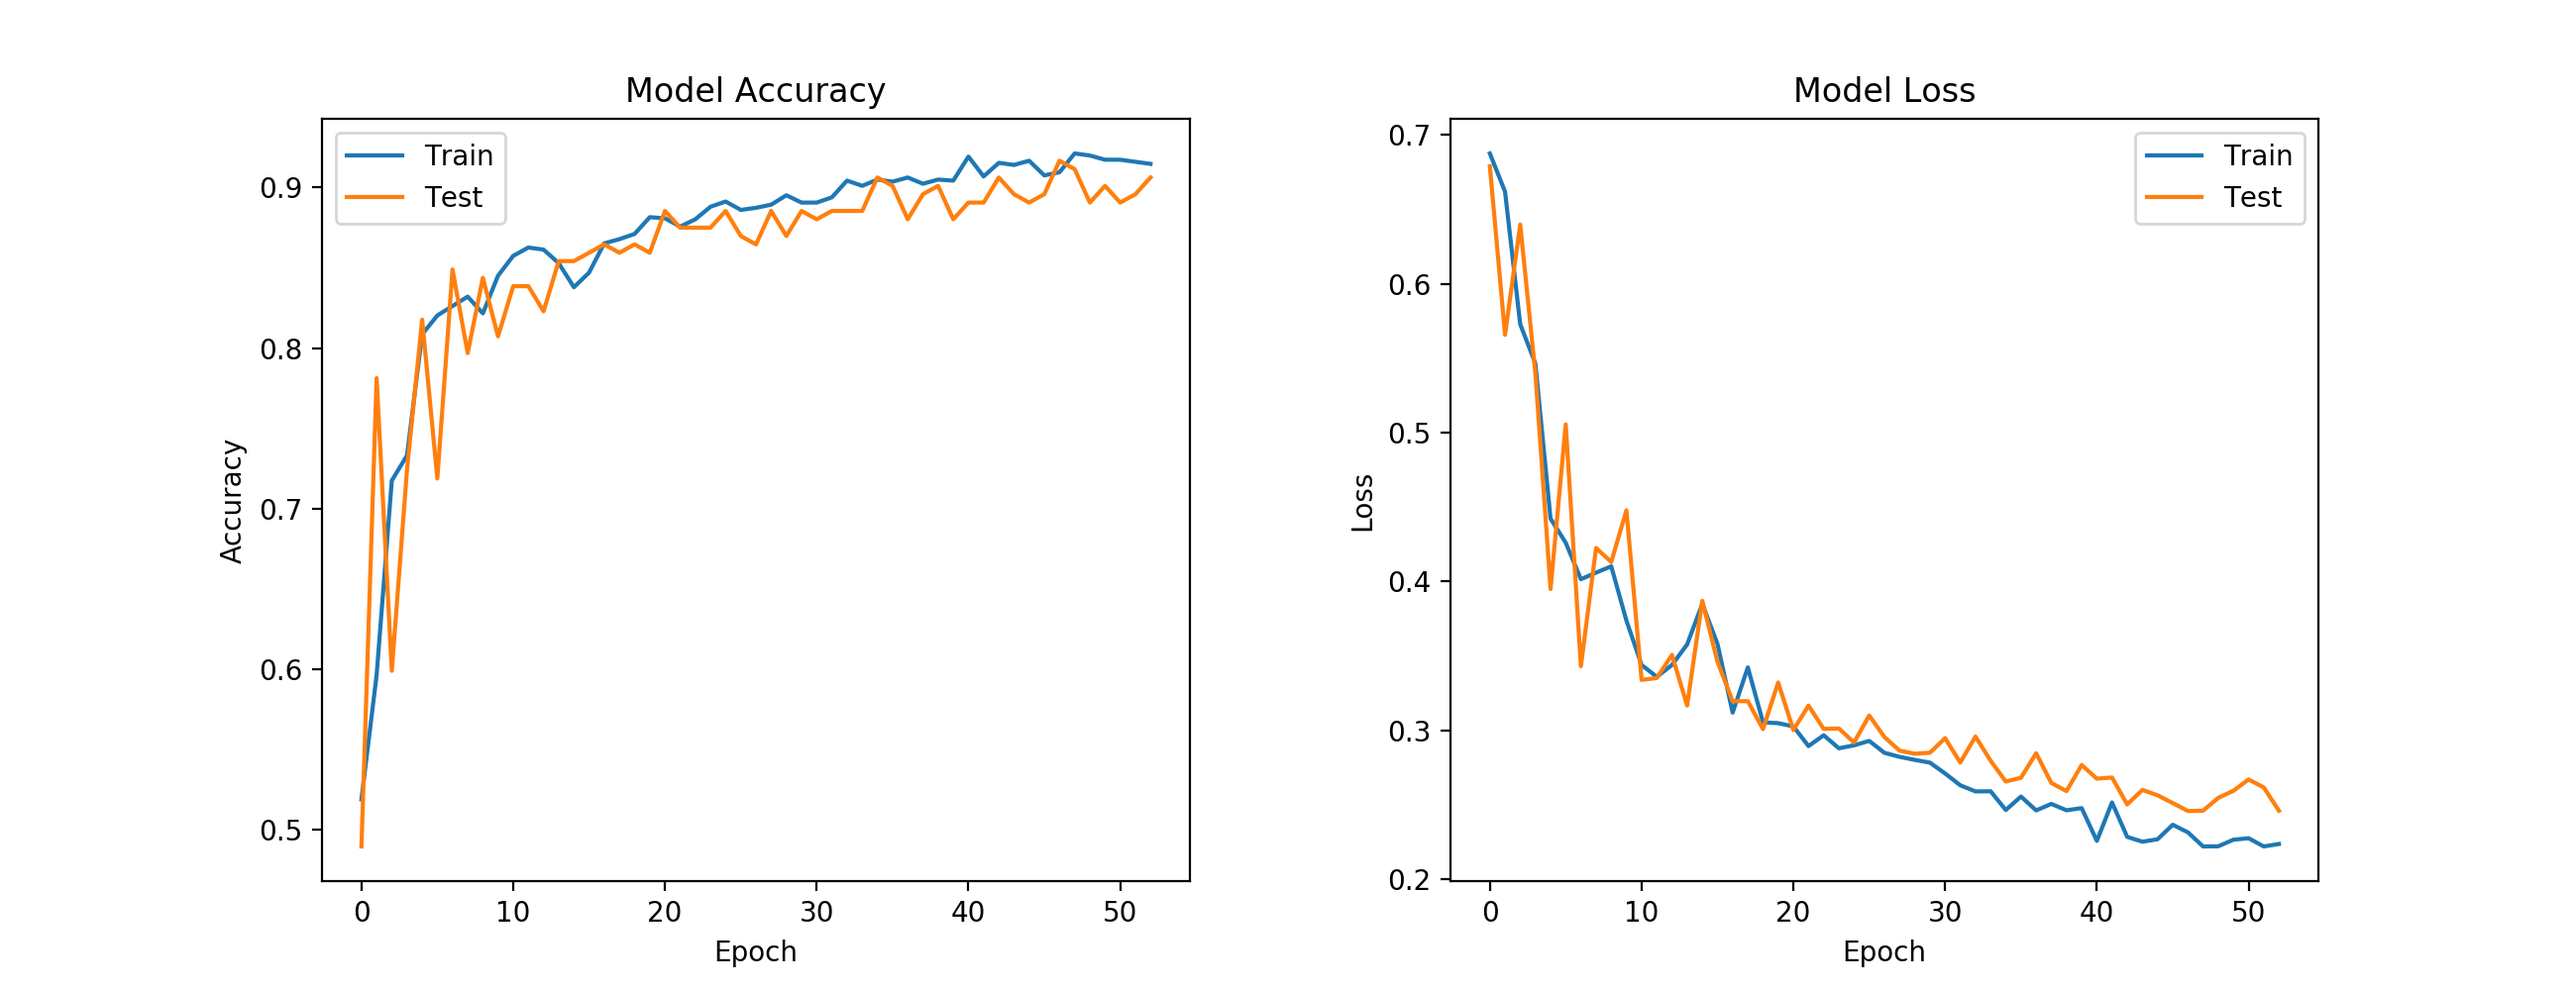
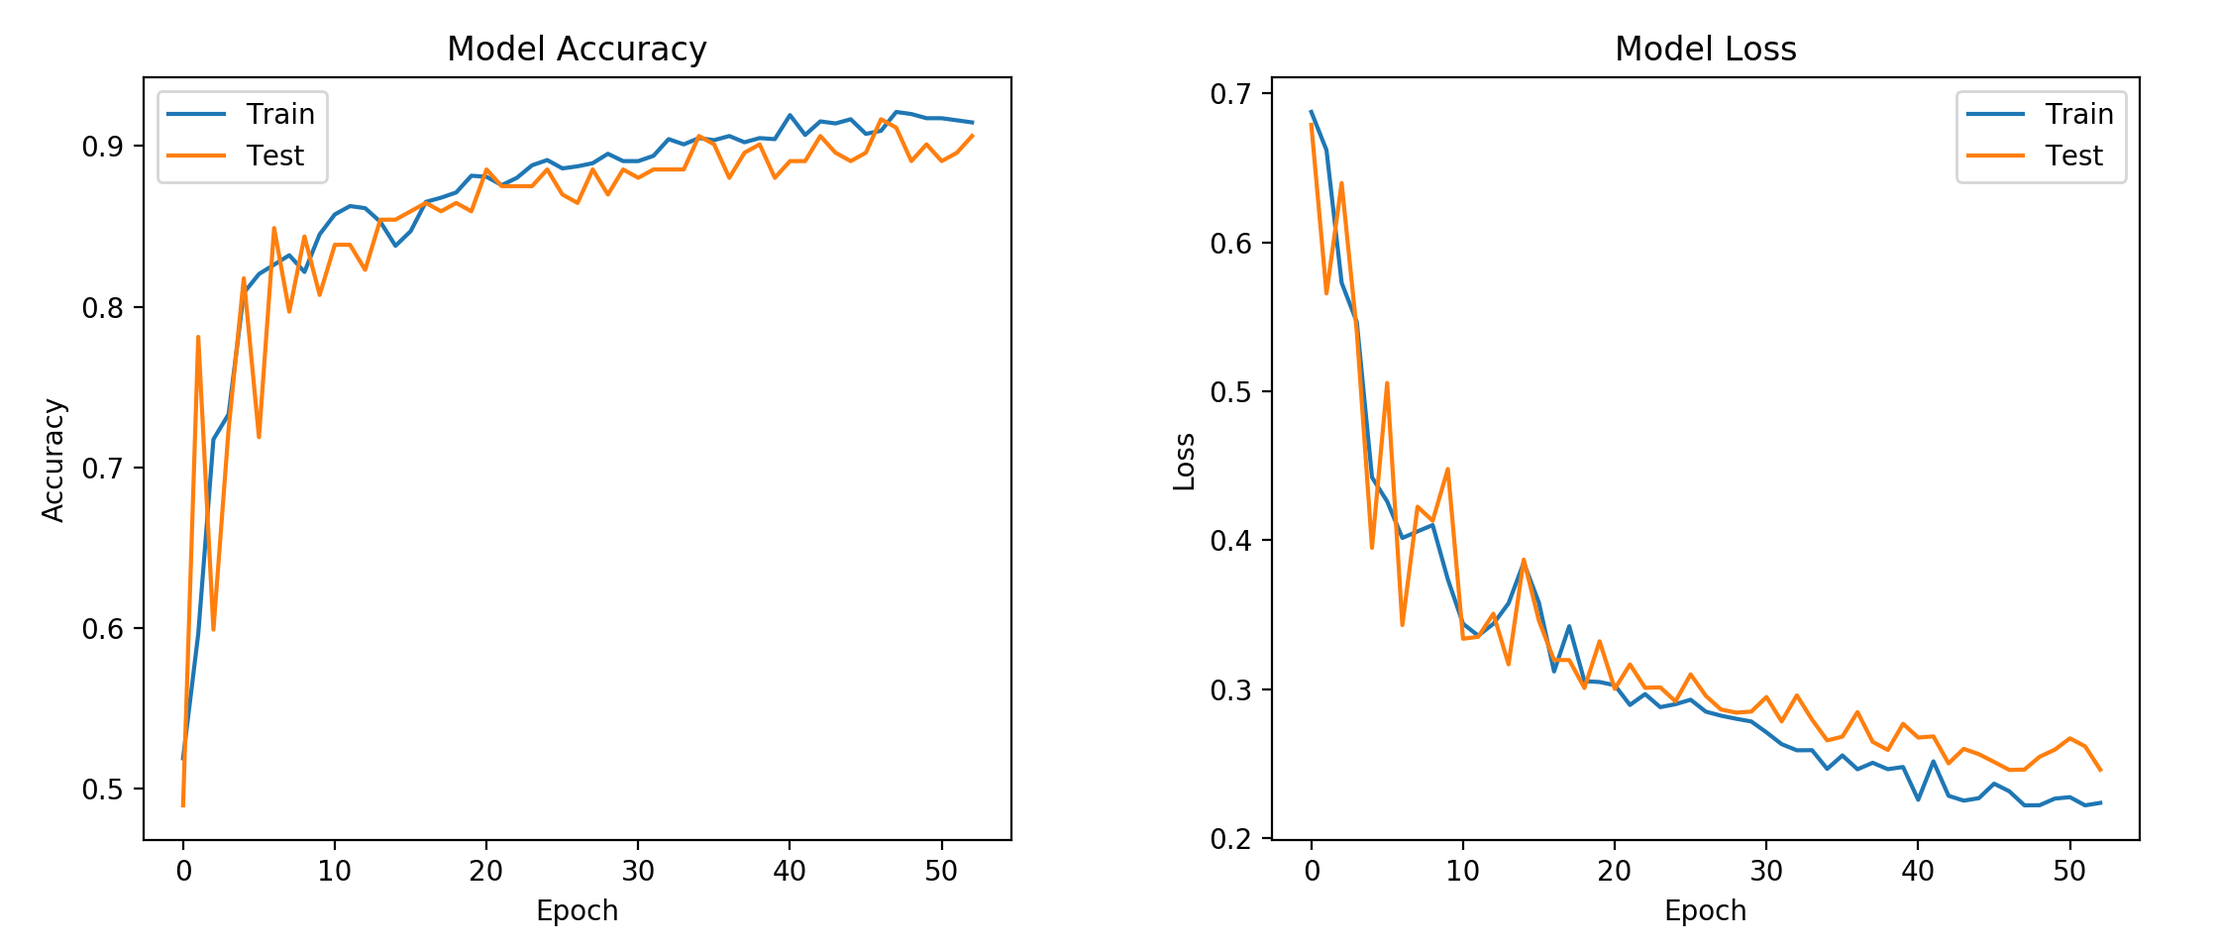
Update README

diff --git a/README.md b/README.md
@@ -16,12 +16,16 @@ In order to use this network with audio, it must first be converted to a format 
 <img src="images/audio_as_array.png" width="70%" height="70%" />
 
 ## Rock vs. Hip-Hop
-<img src="images/rock_v_hiphop.png" width="50%" height="50%"/>
+Our first test will be to see how the network distinguishes between rock and hip-hop.
+<img src="images/rock_v_hiphop.png"/>
 
 Before we train the model, we can reduce the arrays to 2 principal components and plot them, to see that the genres do tend to cluster.
 
-<img src="images/charts/PCA_rock_hiphop.png" width="50%" height="50%" />
+<img src="images/charts/PCA_rock_hiphop.png" width="40%"/>
+
+After training on 800 examples of each genre, the model achieved 94% accuracy on a balanced test set of 200.
+
+<img src="images/charts/model3_summary.png" width="90% />
 
 
-<img src="images/charts/model3_summary.png" width="80%" height="80%" />
-<img src="images/charts/model3_cm.png" width="40%" height="40%" />
+<img src="images/charts/model3_cm.png" width="40%" />
